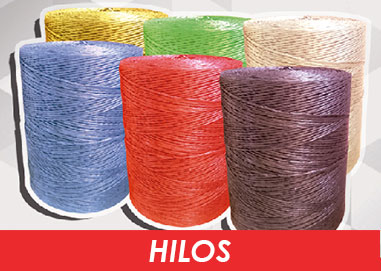
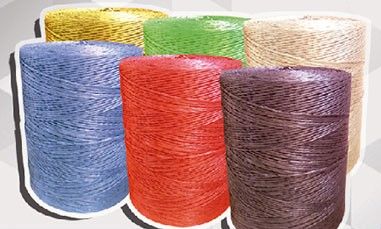
Mejoras en ppt

diff --git a/Diapositivas_v2.html b/Diapositivas_v2.html
@@ -789,9 +789,9 @@
                             de quinua en Santa Cruz de la Sierra."</p>
                     </div>
                 </div>
-                <div class="card" style="padding: 0; overflow: hidden; border-radius: 12px; min-height: 280px;">
+                <div class="card" style="padding: 0; overflow: hidden; border-radius: 12px;">
                     <img src="img/LA-QUINUA-Y-SUS-PROPIEDADES-NUTRICIONALES.jpg" alt="Quinua en grano"
-                        style="width:100%; height: 220px; object-fit: contain; background:#f5f0e8;">
+                        style="width:100%; height: 240px; object-fit: cover; object-position: center;">
                     <div style="padding: 12px 15px; text-align: center; background: #FAFAF5;">
                         <p style="font-size: 15px; color: var(--text-dark); margin: 0;"><strong>Quinua: Grano de
                                 Oro</strong><br><span
@@ -966,7 +966,7 @@
                     <h3><i class="fa-solid fa-wheat-awn"></i> Quinua Real Orgánica</h3>
                     <img src="img/La-quinua-8-beneficios-del-alimento-de-moda-Mar-25-2021-11-04-33-65-PM.jpg"
                         alt="Quinua en grano"
-                        style="width:100%; height:100px; object-fit:contain; border-radius:6px; margin-bottom:8px; background:#f5f0e8;">
+                        style="width:100%; height:140px; object-fit:cover; object-position:center; border-radius:6px; margin-bottom:10px;">
                     <ul>
                         <li><strong>Proveedor:</strong> Quinoabol S.R.L.</li>
                         <li><strong>Costo:</strong> Bs. 900 / saco (25 kg)</li>
@@ -976,7 +976,7 @@
                 <div class="card card-gold">
                     <h3><i class="fa-solid fa-bag-shopping" style="color:var(--accent);"></i> Bolsas Laminadas</h3>
                     <img src="img/image3.jpeg" alt="Bolsa Embolpack"
-                        style="width:100%; height:80px; object-fit:contain; border-radius:6px; margin-bottom:8px; background:#f5f5f5;">
+                        style="width:100%; height:140px; object-fit:contain; border-radius:6px; margin-bottom:10px; background:#FFFFFF;">
                     <ul>
                         <li><strong>Proveedor:</strong> Embolpack S.R.L.</li>
                         <li><strong>Costo:</strong> Bs. 2.80 / unidad</li>
@@ -986,7 +986,7 @@
                 <div class="card" style="border-left:3px solid #64748B;">
                     <h3><i class="fa-solid fa-scissors" style="color:#64748B;"></i> Hilos de Costura</h3>
                     <img src="img/image4.jpeg" alt="Hilos de costura"
-                        style="width:100%; height:100px; object-fit:contain; border-radius:6px; margin-bottom:8px; background:#f5f0e8;">
+                        style="width:100%; height:140px; object-fit:cover; object-position:center; border-radius:6px; margin-bottom:10px;">
                     <ul>
                         <li><strong>Material:</strong> Fibra sintética de alta resistencia</li>
                         <li><strong>Proveedor:</strong> Embolpack S.R.L.</li>
@@ -1190,8 +1190,11 @@
                         <p style="font-size: 12px; color: var(--text-muted); margin-top: 4px; text-align:center;">750 m²
                             | Luz Trifásica | Bs. 12,500/mes</p>
                     </div>
-                    <img src="img/image37.png" alt="Ubicación en Google Maps"
-                        style="width:100%; height: 140px; object-fit: contain; border-top: 1px solid var(--border); background:#f5f0e8;">
+                    <div style="border-top: 1px solid var(--border); background:#FFFFFF; padding: 12px; display:flex; flex-direction:column; align-items:center;">
+                        <img src="img/image37.png" alt="Ubicación en Google Maps"
+                            style="width:auto; max-width:100%; height: 200px; object-fit: contain; border-radius: 6px; box-shadow: 0 1px 4px rgba(0,0,0,0.08);">
+                        <p style="font-size:11px; color:var(--text-muted); margin-top:6px; text-align:center;"><i class="fa-solid fa-location-dot" style="color:var(--accent);"></i> Av. Beni · Distrito 5 · Santa Cruz</p>
+                    </div>
                 </div>
             </div>
         </div>
@@ -1258,28 +1261,34 @@
     <div class="slide" id="s13b">
         <h2 class="s-title"><span class="num">13</span> Equipos Complementarios del Proceso</h2>
         <div class="s-body">
-            <div class="row row-2">
-                <div class="card card-accent">
-                    <h3><i class="fa-solid fa-filter"></i> Zaranda Vibratoria</h3>
-                    <p>Clasifica el grano seco y separa impurezas por tamaño antes de la molienda. Se utiliza en la etapa de limpieza del proceso productivo.</p>
+            <div class="row row-4">
+                <div class="card card-accent" style="padding:14px;">
+                    <h3 style="font-size:13px;"><i class="fa-solid fa-filter"></i> Zaranda Vibratoria</h3>
+                    <img src="img/zaranda.jpg" alt="Zaranda Vibratoria" style="width:100%; height:90px; object-fit:contain; background:#FAFAF5; border-radius:6px; margin:6px 0;">
+                    <p style="font-size:12px; margin:0;">Clasifica el grano seco y separa impurezas por tamaño antes de la molienda.</p>
                 </div>
-                <div class="card card-gold">
-                    <h3><i class="fa-solid fa-circle-nodes" style="color:var(--accent);"></i> Tamiz Rotatorio</h3>
-                    <p>Clasificación de doble cubierta para eliminar impurezas finas. Se emplea después del lavado para asegurar que la materia prima ingrese uniforme al secado.</p>
+                <div class="card card-gold" style="padding:14px;">
+                    <h3 style="font-size:13px;"><i class="fa-solid fa-circle-nodes" style="color:var(--accent);"></i> Tamiz Rotatorio</h3>
+                    <img src="img/tamiz_rotatorio.jpg" alt="Tamiz Rotatorio" style="width:100%; height:90px; object-fit:contain; background:#FAFAF5; border-radius:6px; margin:6px 0;">
+                    <p style="font-size:12px; margin:0;">Doble cubierta para eliminar impurezas finas tras el lavado, previo al secado.</p>
                 </div>
-                <div class="card" style="border-left:3px solid #64748B;">
-                    <h3><i class="fa-solid fa-arrow-down-wide-short" style="color:#64748B;"></i> Tolva de Alimentación
-                    </h3>
-                    <p>Dosifica el grano hacia las etapas de limpieza y molienda. Acero inoxidable, con vibración para evitar obstrucciones en el flujo.</p>
+                <div class="card" style="border-left:3px solid var(--text-muted); padding:14px;">
+                    <h3 style="font-size:13px;"><i class="fa-solid fa-arrow-down-wide-short" style="color:var(--text-muted);"></i> Tolva de Alimentación</h3>
+                    <img src="img/tolva.jpg" alt="Tolva de Alimentación" style="width:100%; height:90px; object-fit:contain; background:#FAFAF5; border-radius:6px; margin:6px 0;">
+                    <p style="font-size:12px; margin:0;">Dosifica el grano hacia limpieza y molienda. Acero inoxidable con vibración antiobstrucción.</p>
                 </div>
-                <div class="card card-purple">
-                    <h3><i class="fa-solid fa-sieve" style="color:#8B5CF6;"></i> Tamizador Vibratorio</h3>
-                    <p>Filtra la harina molida para separar grumos y partículas mayores. Se utiliza posterior a la molienda y previo al envasado.</p>
+                <div class="card card-accent" style="padding:14px;">
+                    <h3 style="font-size:13px;"><i class="fa-solid fa-sieve"></i> Tamizador Vibratorio</h3>
+                    <img src="img/tamizador.png" alt="Tamizador Vibratorio" style="width:100%; height:90px; object-fit:contain; background:#FAFAF5; border-radius:6px; margin:6px 0;">
+                    <p style="font-size:12px; margin:0;">Filtra la harina molida para separar grumos. Se usa post-molienda, previo al envasado.</p>
                 </div>
             </div>
-            <div class="card" style="background:rgba(45,106,79,0.06); border:1px solid rgba(45,106,79,0.15);">
-                <h3><i class="fa-solid fa-box-open"></i> Envasadora Semiautomática (Costura de Sacos)</h3>
-                <p>Llena y cierra los sacos de 25 kg mediante costura. Inversión total en maquinaria y equipos: <strong>Bs. 348,094</strong>.</p>
+            <div class="card card-gold" style="background:rgba(198,139,0,0.06); border:1px solid rgba(198,139,0,0.2); display:flex; flex-direction:row; align-items:center; gap:18px;">
+                <img src="img/envasadora.jpg" alt="Envasadora Semiautomática" style="width:90px; height:110px; object-fit:contain; background:#FAFAF5; border-radius:6px; flex-shrink:0;">
+                <div style="flex:1;">
+                    <h3 style="font-size:14px;"><i class="fa-solid fa-box-open" style="color:var(--accent);"></i> Envasadora Semiautomática (Costura de Sacos)</h3>
+                    <p style="margin:4px 0 0;">Llena y cierra los sacos de 25 kg mediante costura. Inversión total en maquinaria y equipos: <strong>Bs. 348,094</strong>.</p>
+                </div>
             </div>
         </div>
         <div class="s-foot"><span>Capítulo VI: Ingeniería</span><span>Alejandro F. Torrico Rojas</span></div>
